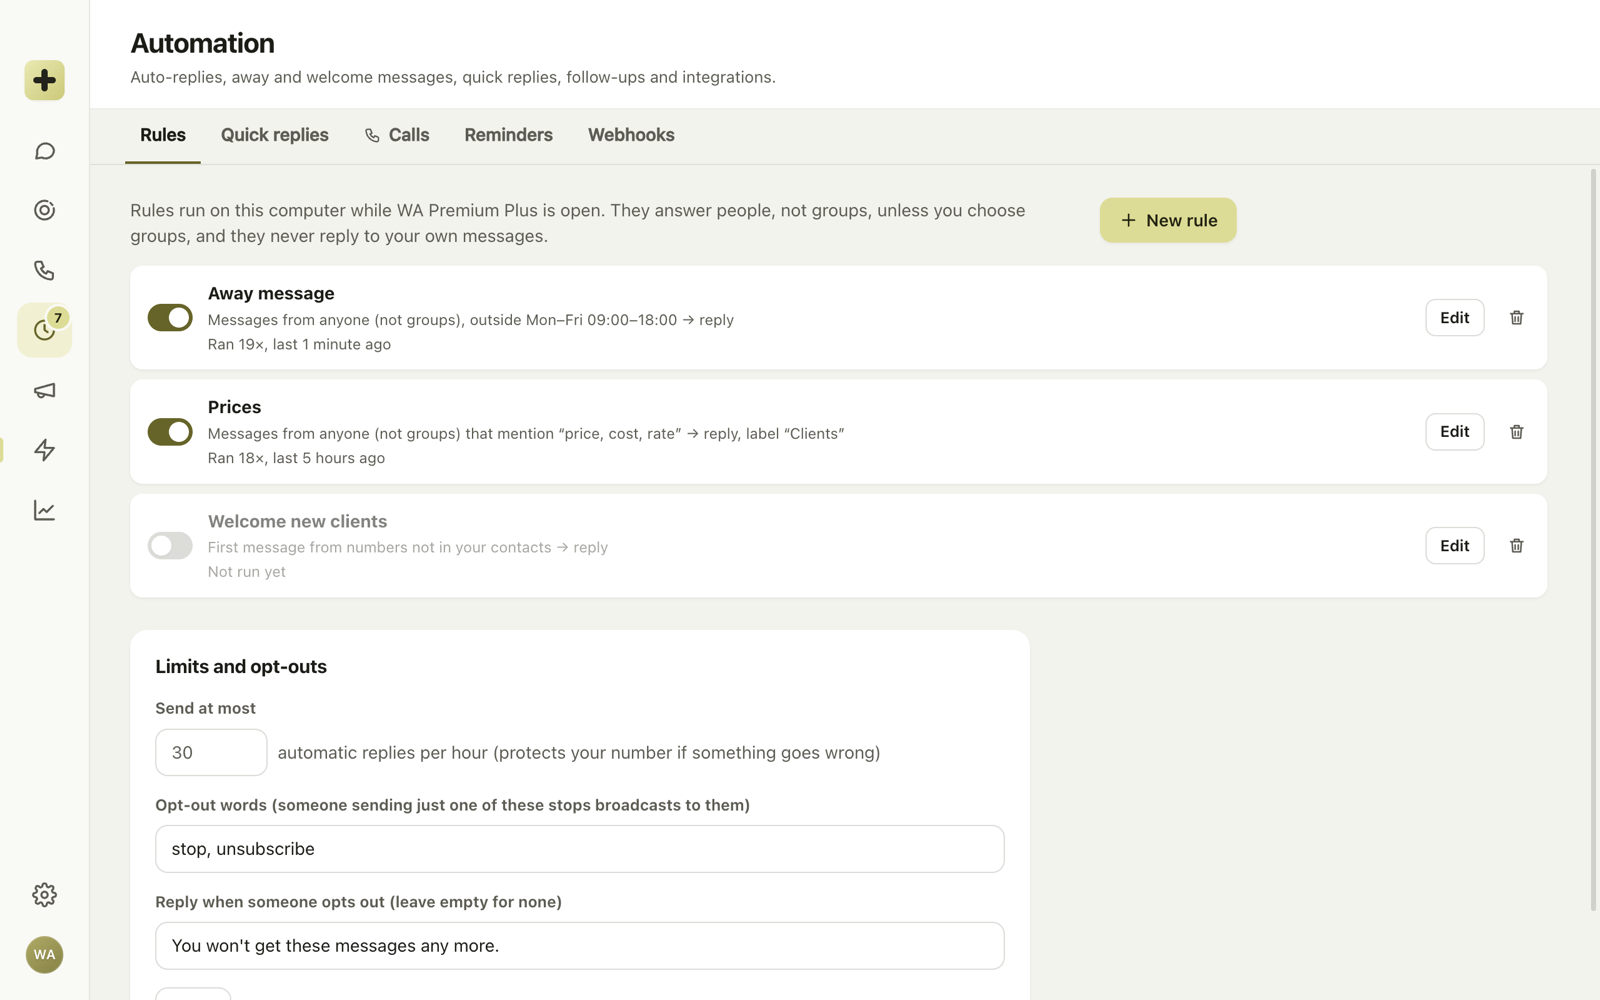
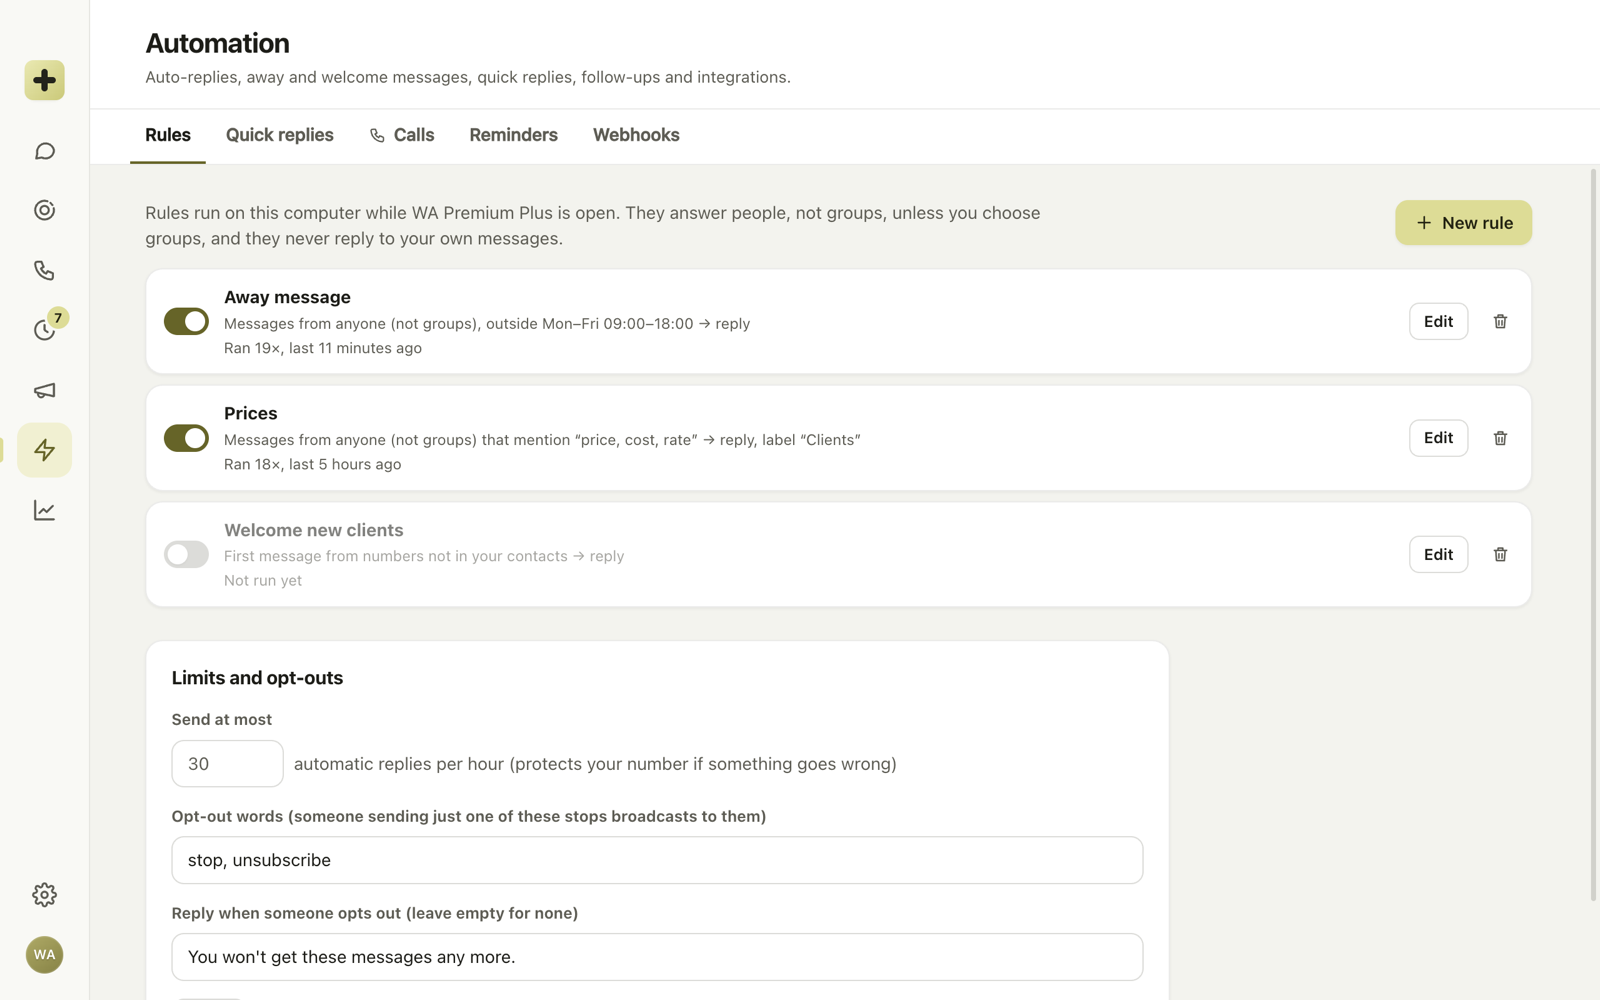
Version 0.5.1: polished layout; refreshed README screenshots

diff --git a/.github/release-notes.md b/.github/release-notes.md
@@ -9,6 +9,8 @@ Free, open-source WhatsApp desktop app with scheduling and automation. Unofficia
 - **Insights** and **exports** of chats and group members.
 - **Updates itself** from GitHub Releases, verified against SHA256SUMS.
 
+**0.5.1** polishes alignment, spacing, edges and sizes on every screen, keeps pages and the message column at a comfortable width on large and full-screen windows, and fixes small-window overflow.
+
 Versions before 0.5 don't update themselves: install this one with a command below, and later versions arrive automatically.
 
 ## Install
